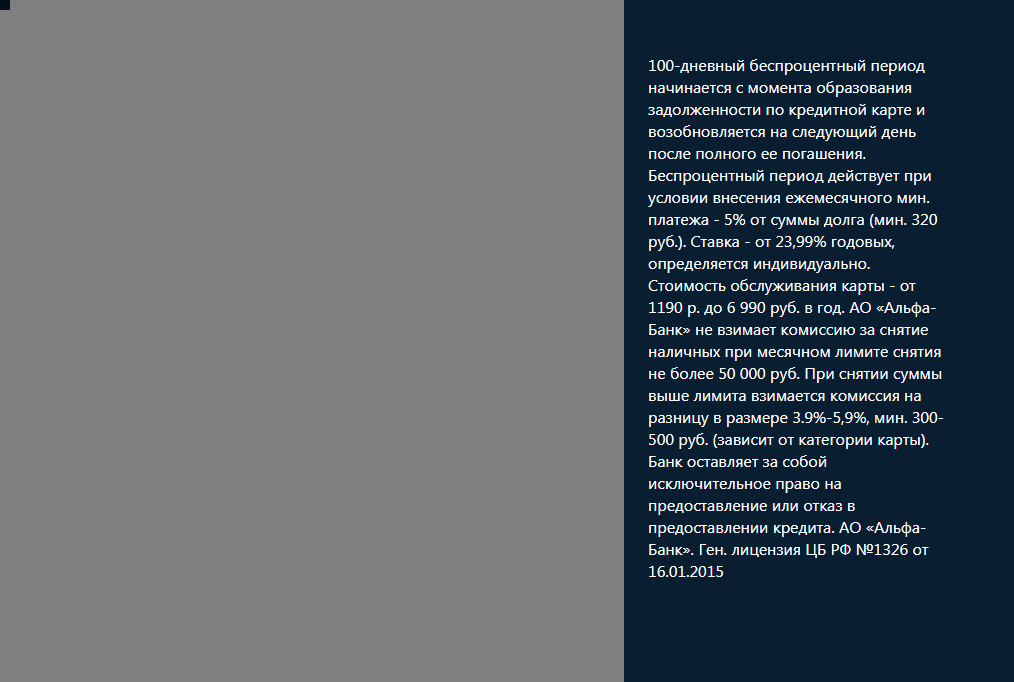
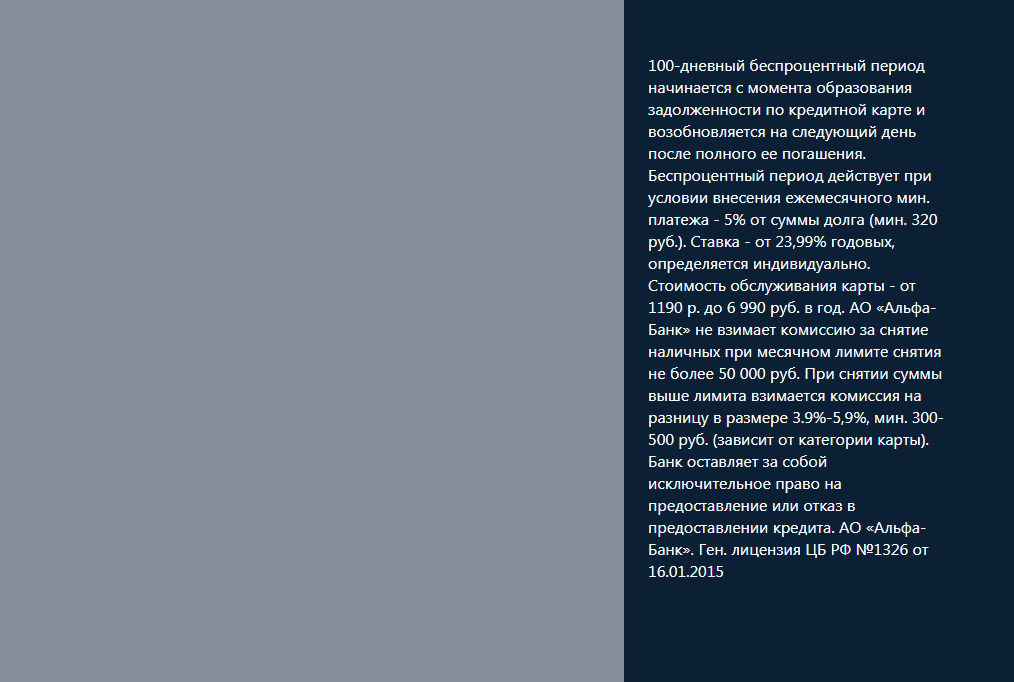
chore(*): udpate gemini screens, update overlay color var

diff --git a/gemini/sidebar.gemini.js b/gemini/sidebar.gemini.js
@@ -1,6 +1,6 @@
-import GeminiBox from '../gemini-utils/gemini-box/gemini-box';
-import Sidebar from '../src/sidebar';
 import Paragpaph from '../src/paragraph';
+import Sidebar from '../src/sidebar';
+import ThemeProvider from '../src/theme-provider';
 
 const NAME = 'sidebar';
 const THEMES = ['alfa-on-color', 'alfa-on-white'];
@@ -21,7 +21,7 @@ geminiReact.suite(NAME, function () {
             geminiReact.suite(selector, function (suite) {
                 let props = { theme, ...set, visible: true };
                 let template = (
-                    <GeminiBox theme={ theme }>
+                    <ThemeProvider theme={ theme }>
                         <Sidebar { ...props }>
                             <Paragpaph>
                                 100-дневный беспроцентный период начинается с момента образования задолженности по
@@ -36,7 +36,7 @@ geminiReact.suite(NAME, function () {
                                 РФ №1326 от 16.01.2015
                             </Paragpaph>
                         </Sidebar>
-                    </GeminiBox>
+                    </ThemeProvider>
                 );
 
                 suite

diff --git a/src/vars/shadow.css b/src/vars/shadow.css
@@ -27,5 +27,5 @@
     /**
      * Тень для оверлея, Используется, например, в сайдбаре
      */
-    --shadow-overlay-color: rgba(0, 0, 0, 0.5);
+    --shadow-overlay-color: color(var(--shadow-color) a(.5));
 }
